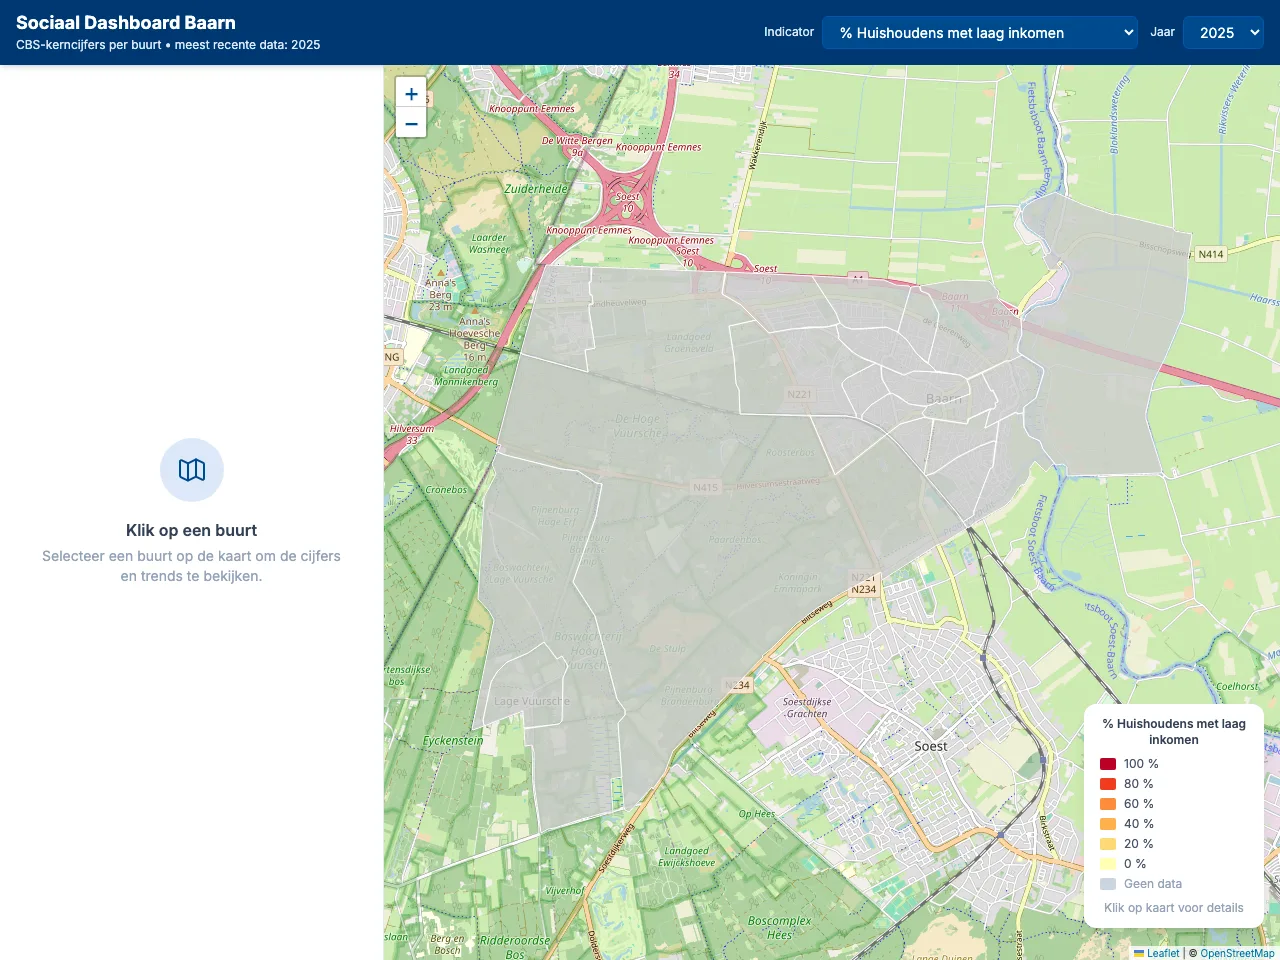
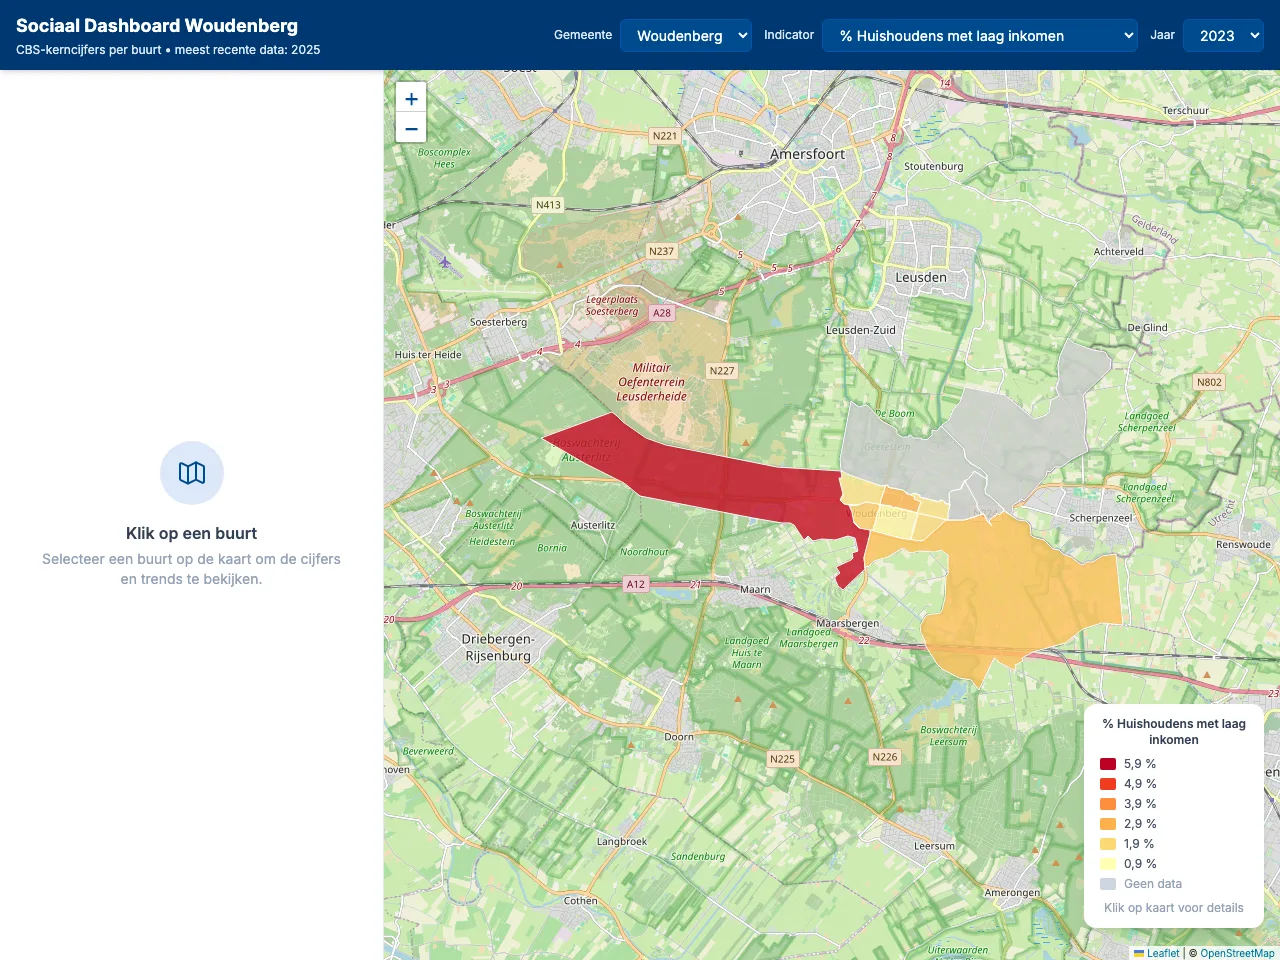
Sociaal Dashboard nu ook Woudenberg: nieuwe screenshot en teksten op site bijgewerkt

diff --git a/index.html b/index.html
@@ -73,7 +73,7 @@ header:
     <div class="home-section">
       <span class="section-eyebrow">&#10022; Tools &amp; dashboards</span>
       <h2 class="archive__subtitle">Transparantie door data</h2>
-      <p class="section-subtitle">Interactieve tools die complexe informatie toegankelijk maken. Begrotingsblik en Jarvis bouwde ik in Woudenberg met AI; de dashboards met het label Baarn stammen uit mijn periode daar.</p>
+      <p class="section-subtitle">Interactieve tools die complexe informatie toegankelijk maken. Begrotingsblik en Jarvis bouwde ik in Woudenberg met AI; het Sociaal Dashboard toont inmiddels Baarn én Woudenberg, en wat het label Baarn draagt stamt uit mijn periode daar.</p>
 
       <div class="dashboard-grid">
 
@@ -112,11 +112,11 @@ header:
 
         <a href="https://cbs.markeijbaard.nl" class="dashboard-card" target="_blank" rel="noopener">
           <div class="dashboard-card__preview">
-            <img src="/assets/images/dashboard_lokaal.webp" alt="Wijkdata Dashboard screenshot" loading="lazy">
+            <img src="/assets/images/dashboard_lokaal.webp" alt="Sociaal Dashboard met CBS-buurtcijfers" loading="lazy">
           </div>
           <div class="dashboard-card__body">
-            <p class="dashboard-card__title">Wijkdata Dashboard <span class="dashboard-card__badge">Baarn</span></p>
-            <p class="dashboard-card__desc">Interactieve kaart met CBS-wijkstatistieken voor alle buurten in Baarn. Demografische gegevens, woningmarkt en meer per wijk.</p>
+            <p class="dashboard-card__title">Sociaal Dashboard <span class="dashboard-card__badge">Nieuw: Woudenberg</span></p>
+            <p class="dashboard-card__desc">CBS-kerncijfers per buurt op de kaart, voor Baarn én Woudenberg. Bevolking, woningmarkt, inkomen en voorzieningen — met de trend vanaf 2016.</p>
             <span class="dashboard-card__link">Bekijk dashboard <span class="dashboard-card__arrow">→</span></span>
           </div>
         </a>

diff --git a/_projects/dashboards.md b/_projects/dashboards.md
@@ -1,8 +1,8 @@
 ---
 title: "Open-data dashboards"
 pagetitle: "Open-data dashboards"
-excerpt: "Drie open-source dashboards uit mijn Baarnse periode: verkiezingsuitslagen per buurt, CBS-wijkcijfers op de kaart en een hulpmiddel voor treinspotters."
-description: "Open-source dashboards van Mark Eijbaard: het Verkiezingsdashboard Baarn, het CBS Wijkdata Dashboard en Spotconverter Pro. Transparant en datagedreven."
+excerpt: "Drie open-source dashboards: CBS-wijkcijfers voor Baarn én Woudenberg op de kaart, verkiezingsuitslagen per buurt en een hulpmiddel voor treinspotters."
+description: "Open-source dashboards van Mark Eijbaard: het Sociaal Dashboard met CBS-buurtcijfers voor Baarn en Woudenberg, het Verkiezingsdashboard Baarn en Spotconverter Pro. Transparant en datagedreven."
 date: 2025-08-24
 layout: splash
 author_profile: false
@@ -14,18 +14,18 @@ header:
     - label: "Bekijk Begrotingsblik"
       url: "/projects/begrotingsblik/"
 feature_row:
+  - image_path: /assets/images/dashboard_lokaal.webp
+    alt: "Sociaal Dashboard met CBS-buurtcijfers voor Woudenberg"
+    title: "Sociaal Dashboard"
+    excerpt: "CBS-kerncijfers per buurt op de kaart, voor **Baarn én Woudenberg**: bevolking, huishoudens, woningen, inkomen en voorzieningen. Klik op een buurt voor de cijfers, de trend vanaf 2016 en een vergelijking met een andere buurt."
+    url: "https://cbs.markeijbaard.nl"
+    btn_label: "Open het dashboard"
+    btn_class: "btn--primary"
   - image_path: /assets/images/dashboard_verkiezingen.webp
     alt: "Verkiezingsdashboard Baarn"
     title: "Verkiezingsdashboard Baarn"
     excerpt: "Uitslagen van gemeenteraads-, Tweede Kamer- en Europese verkiezingen per stembureau en buurt, met zetelverdeling en vergelijking tussen jaren."
     url: "https://verkiezingen.markeijbaard.nl"
-    btn_label: "Open het dashboard"
-    btn_class: "btn--primary"
-  - image_path: /assets/images/dashboard_lokaal.webp
-    alt: "Wijkdata Dashboard Baarn"
-    title: "Wijkdata Dashboard"
-    excerpt: "CBS-kerncijfers per buurt op de kaart: bevolking, huishoudens, woningen, inkomen en voorzieningen. Klik op een buurt en zie hoe die zich verhoudt tot de rest van Baarn."
-    url: "https://cbs.markeijbaard.nl"
     btn_label: "Open het dashboard"
     btn_class: "btn--primary"
   - image_path: /assets/images/dashboard_spotconverter.webp
@@ -37,9 +37,9 @@ feature_row:
     btn_class: "btn--primary"
 ---
 
-Deze drie dashboards bouwde ik tijdens mijn periode als wethouder in Baarn, vanuit de overtuiging dat **transparantie begint bij toegankelijke data**. Cijfers die in rapporten verstopt zitten, zeggen inwoners weinig; dezelfde cijfers op een kaart of in een grafiek wél. De dashboards zijn open source, de data komt van de Kiesraad, het CBS en openbare bronnen.
+Deze dashboards begonnen tijdens mijn periode als wethouder in Baarn, vanuit de overtuiging dat **transparantie begint bij toegankelijke data**. Cijfers die in rapporten verstopt zitten, zeggen inwoners weinig; dezelfde cijfers op een kaart of in een grafiek wél. Ze zijn open source, de data komt van het CBS, de Kiesraad en andere openbare bronnen.
 
-Ze draaien op hun eigen adres en worden daar bijgehouden. Voor Woudenberg en de regio is er inmiddels [Begrotingsblik](/projects/begrotingsblik/), dat dezelfde gedachte doortrekt naar de gemeentelijke financiën.
+Het Sociaal Dashboard is inmiddels uitgebreid met **Woudenberg**: je kiest bovenin de gemeente en de kaart, de cijfers en de legenda schakelen mee. Een maandelijkse automatische update haalt de nieuwe CBS-cijfers op. Voor de gemeentelijke financiën doet [Begrotingsblik](/projects/begrotingsblik/) hetzelfde, voor tien gemeenten in de regio.
 
 {% include feature_row %}
 
